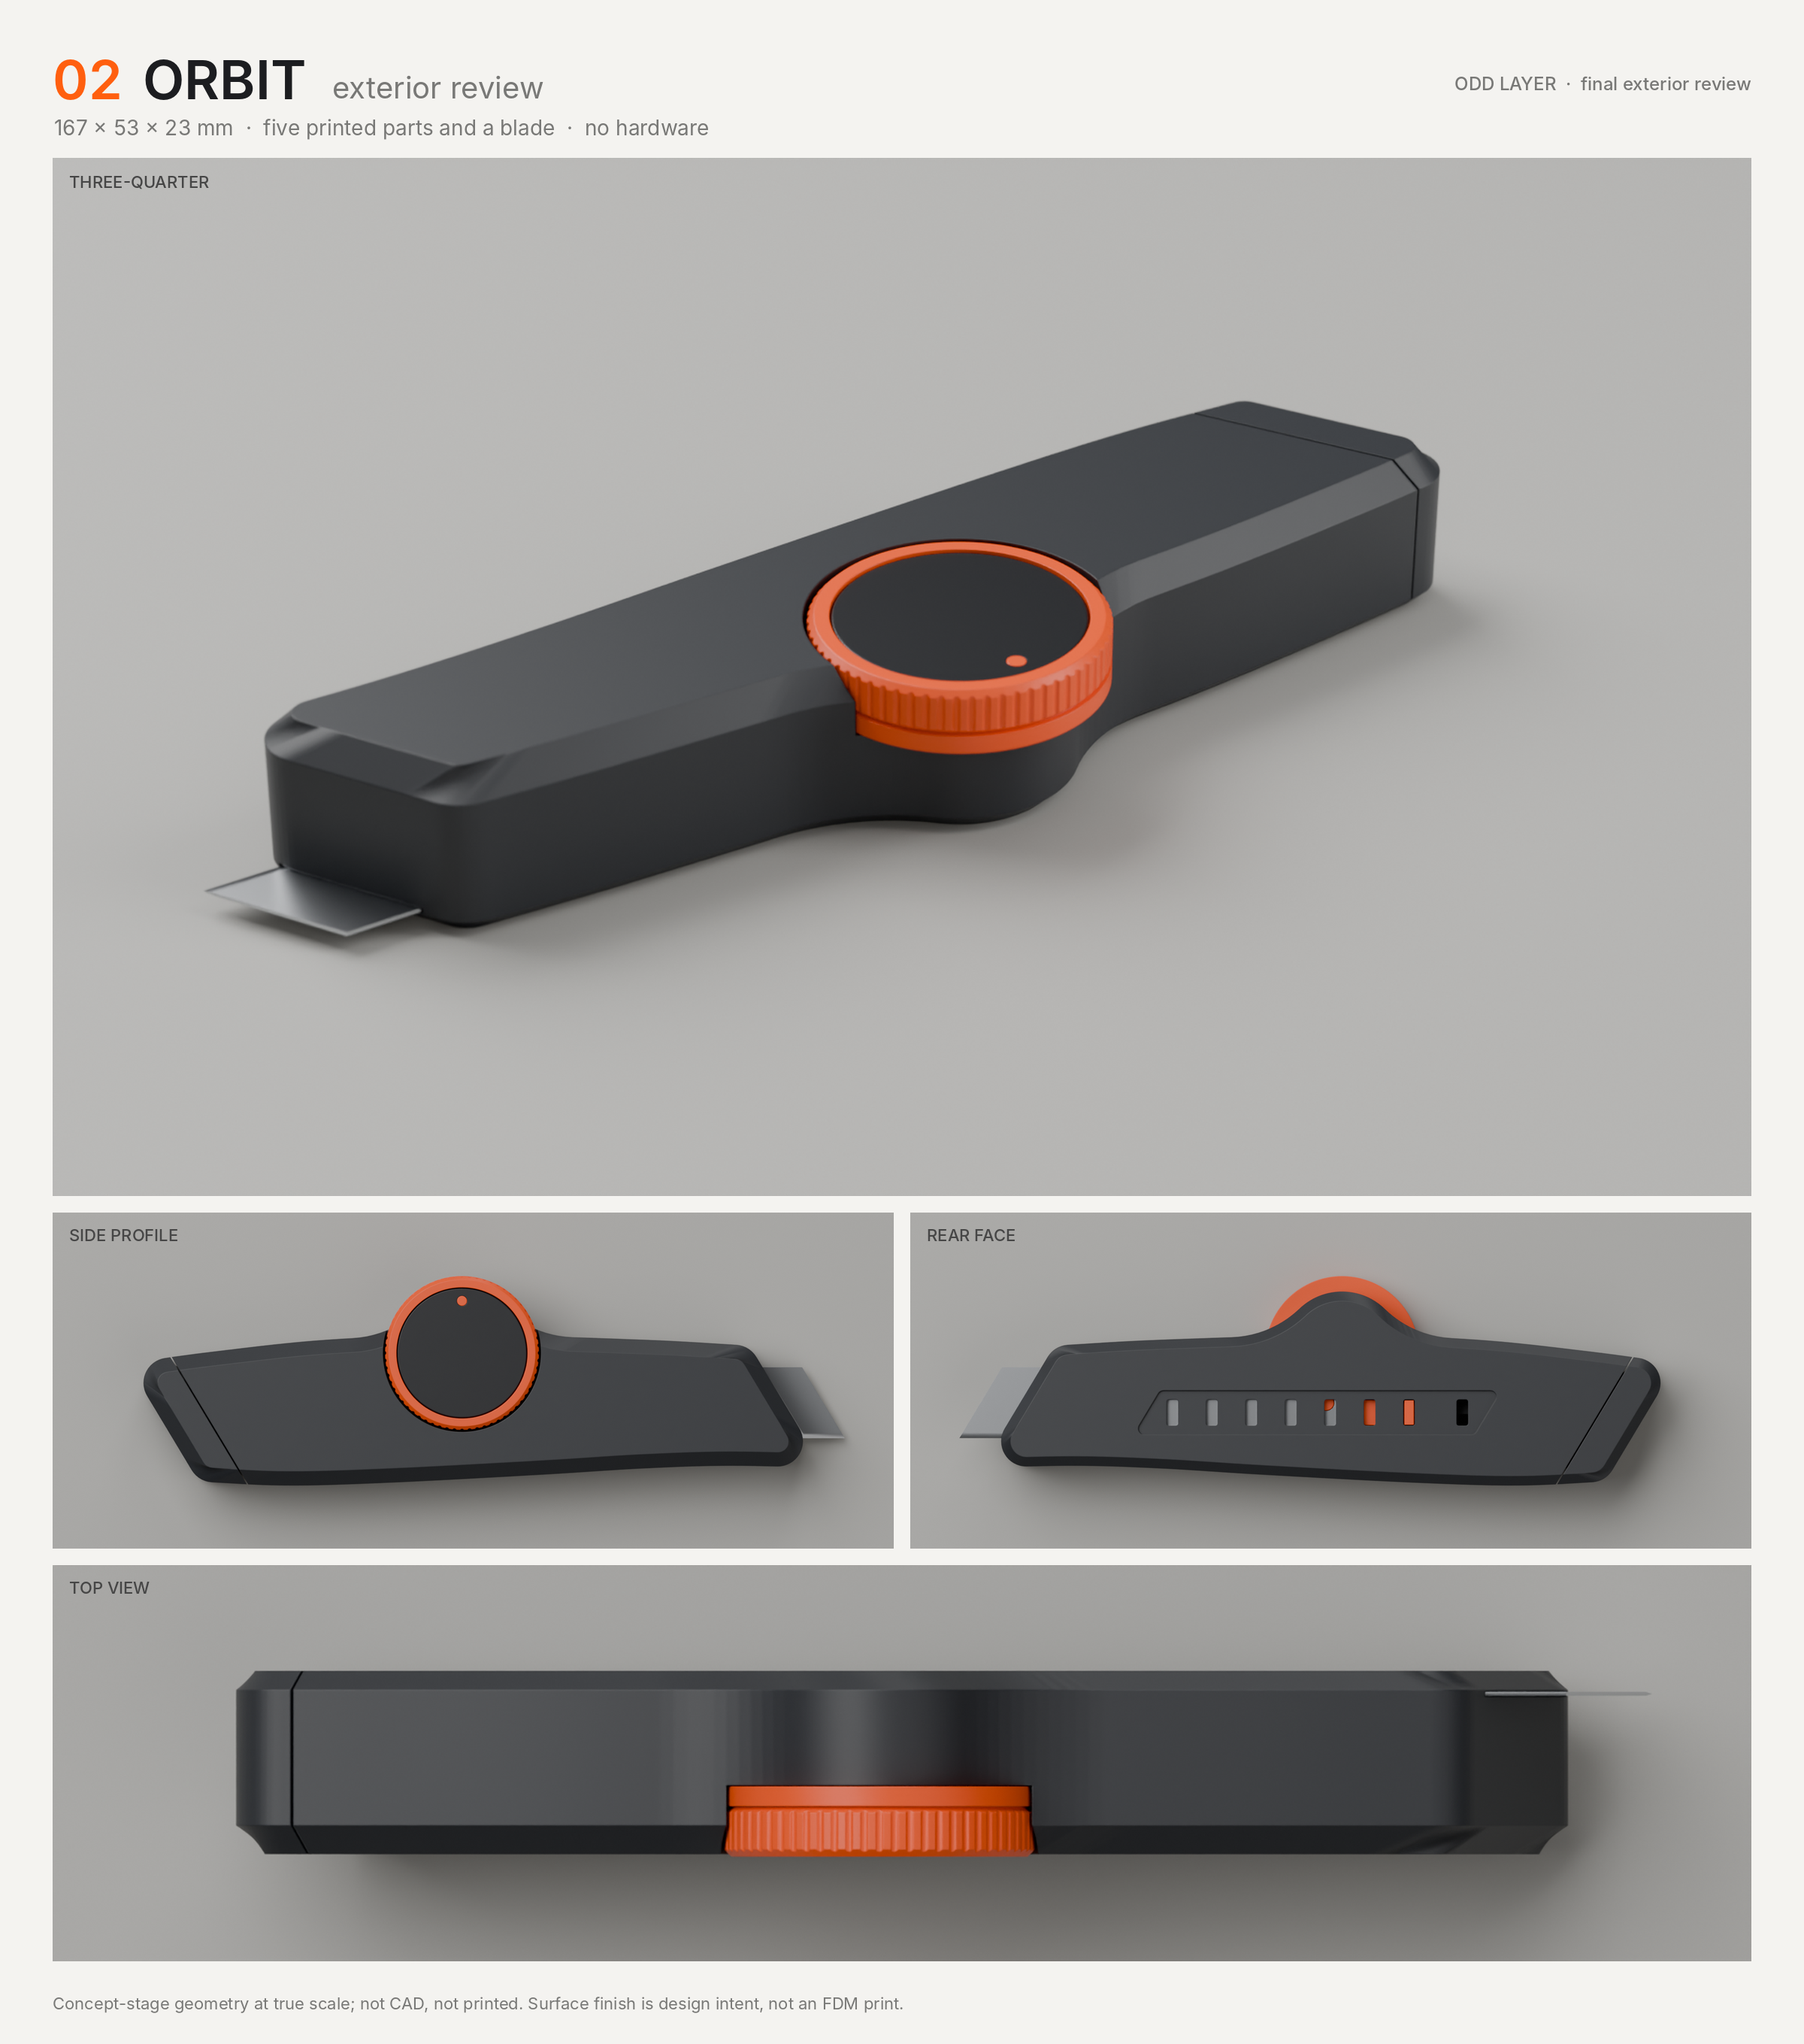
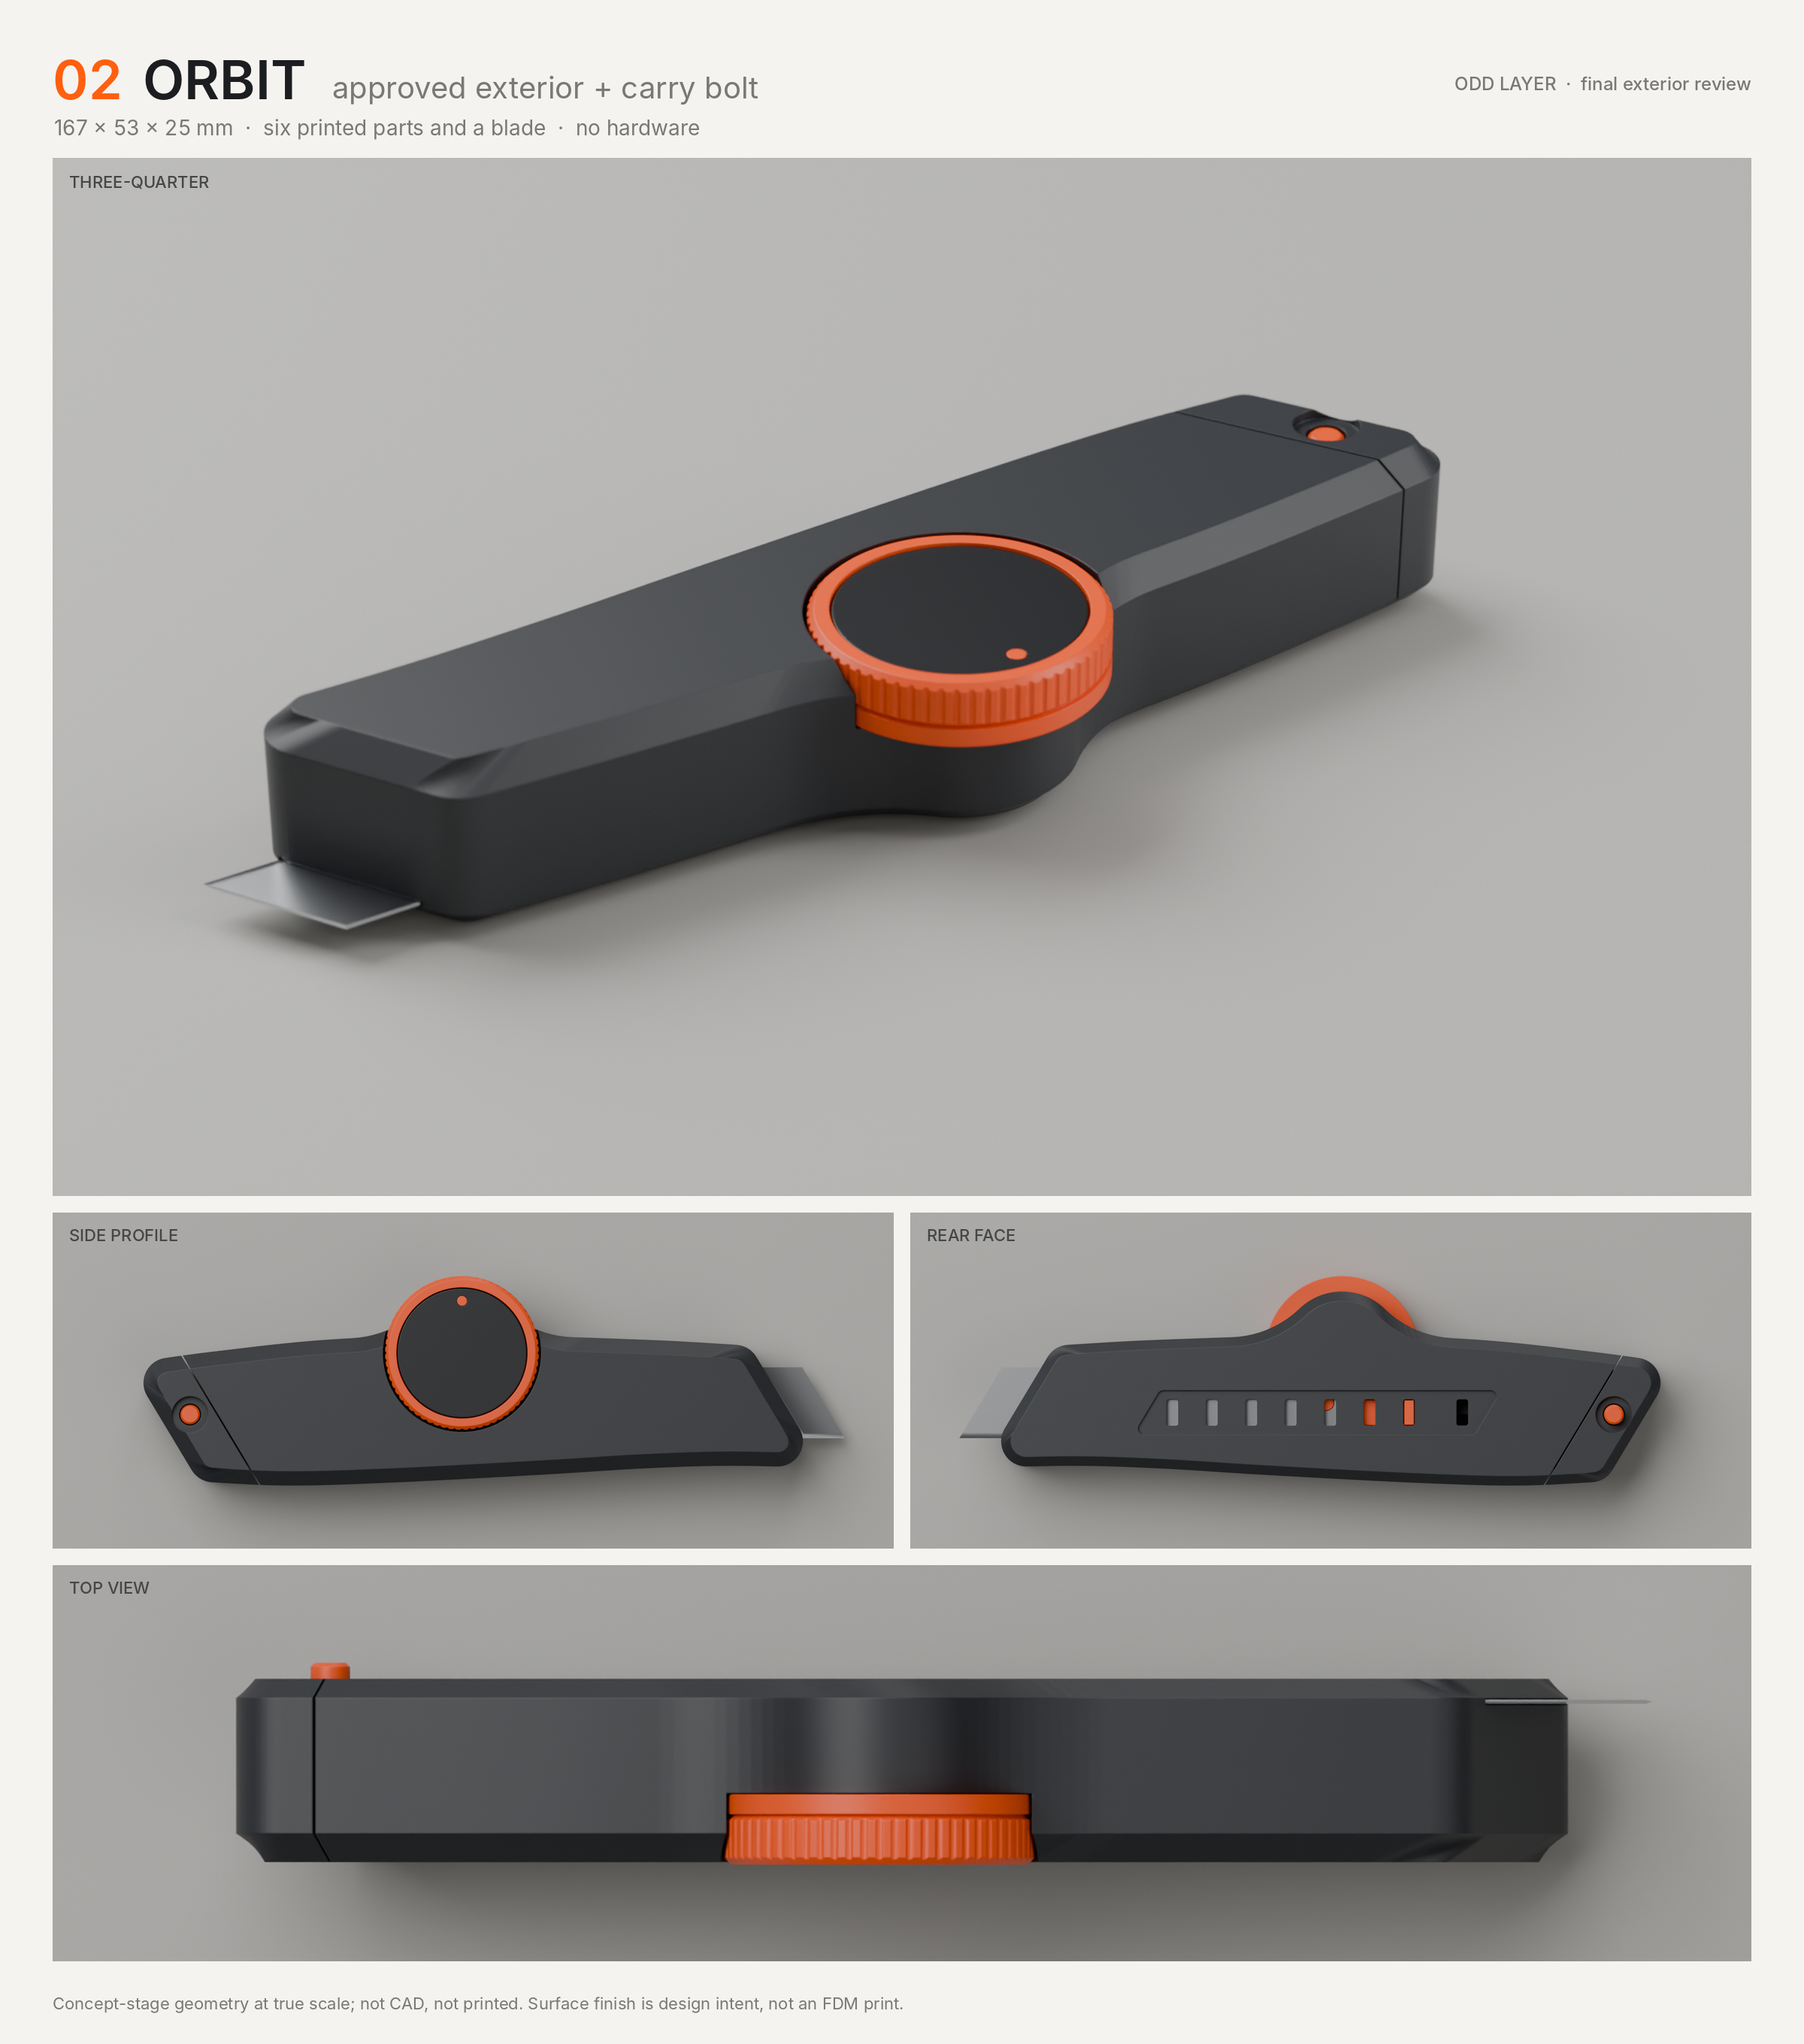
ORBIT architecture: final renders with carry bolt, boards rebuilt
Claude-Session: https://claude.ai/code/session_01B7X9gErJDfcyt8xAF857uu

diff --git a/utility-cutter/uc/board2.py b/utility-cutter/uc/board2.py
@@ -15,7 +15,7 @@ LEGEND = [
     ("body", "Body", "One piece. Prints on its back face; the blade channel is a bridge."),
     ("wheel", "Wheel", "Thumb wheel, pinion and flange in one part; the dark face is a colour inlay. Drops in from the side."),
     ("shuttle", "Shuttle", "The rack. Slides in from the tail and keys the wheel into the body."),
-    ("carriage", "Carriage", "Blade seat with the lock pawl. The wear part: reprint it, keep the rest."),
+    ("carriage", "Carriage", "Blade seat with the two lock pawls. The wear part: reprint it, keep the rest."),
     ("blade", "Blade", "Standard 18 mm snap-off. The only part that is not printed. Seven of its eight tips are used."),
     ("tail_cap", "Tail cap", "Closes the channel. Slides on sideways on two rails, so no load along the tool can pull it off."),
     ("carry_bolt", "Carry bolt", "Push-through bolt in the tail cap. Holds the rack when the blade is parked, so the wheel cannot turn."),
@@ -206,12 +206,12 @@ def mechanism(out):
     ex_w = 1500
     ex_h = int(ex_w * ex.height / ex.width)
     cut_h = int(cw * cut.height / cut.width)
-    lock_h = 560
+    lock_h = -22            # the lock sequence now has its own board (arch_lock.png)
     head = 210
     H = head + ex_h + G + cut_h + G + lock_h + M + 40
     s = Image.new("RGB", (W, H), BG)
     d = ImageDraw.Draw(s)
-    _header(d, W, M, "printed mechanism", "Six printed parts. The gears only move the blade; the cutting load goes through a pawl "
+    _header(d, W, M, "printed mechanism", "Six printed parts. The gears only move the blade; the cutting load goes through the pawls "
             "in the body wall.", "ODD LAYER  ·  layout, not CAD")
     # exploded view + legend
     y = head
@@ -246,7 +246,7 @@ def mechanism(out):
     lb = cmap["labels"]
     for (key, tx, tz, text) in [("pinion", lb["pinion"][0] - 30, 46, "12-tooth pinion, part of the wheel"),
                                 ("rack", lb["rack"][0] + 6, -24, "rack (shuttle)"),
-                                ("carriage", lb["carriage"][0] + 26, 46, "carriage and pawl"),
+                                ("carriage", lb["carriage"][0] + 26, 46, "carriage and pawls"),
                                 ("blade", 30, -24, "blade, flat against the back wall")]:
         x, z = lb[key]
         a, b = cp(x, z), cp(tx, tz)
@@ -256,23 +256,6 @@ def mechanism(out):
         bx = b[0] - w_ / 2
         d.rectangle((bx - 12, b[1] - 20, bx + w_ + 12, b[1] + 20), fill=WHITE)
         d.text((bx, b[1] - 15), text, font=f, fill=INK)
-    # lock sequence
-    y3 = y2 + cut_h + G
-    d.rectangle((M, y3, W - M, y3 + lock_h), fill=WHITE)
-    d.text((M + 22, y3 + 18), "LOCK SEQUENCE, SECTION SEEN FROM ABOVE (BACK WALL AT THE BOTTOM, NOSE TO THE LEFT)",
-           font=font("Medium", 22), fill=(70, 70, 70))
-    pw = (cw - 80) / 3
-    sc = (pw - 60) / 50.0
-    oy = y3 + 395
-    _lock_panel(d, M + 40, oy, sc, 0, "1  Locked",
-                ["Pawl tooth sits in a wall window; its spring arm is relaxed.",
-                 "Load path: blade, carriage, tooth, wall. No gear involved."])
-    _lock_panel(d, M + 40 + pw, oy, sc, 1, "2  Roll the wheel",
-                ["The rack moves 2.5 mm before the carriage does.",
-                 "Its V slot lifts the pawl clear, then picks the carriage up."])
-    _lock_panel(d, M + 40 + 2 * pw, oy, sc, 2, "3  Let go",
-                ["The arm is meant to spring back and re-centre the rack,",
-                 "dropping the tooth into the next window. Untested."])
     d.text((M, H - M + 2), "Layout and proportions only. Tooth form, fits and the spring arm are placeholders until the "
            "test coupons are printed.", font=font("Regular", 22), fill=MUTE)
     p = os.path.join(out, "board_orbit2_mechanism.png")

diff --git a/utility-cutter/ARCHITECTURE.md b/utility-cutter/ARCHITECTURE.md
@@ -24,7 +24,7 @@ chamfers).
 | Blade support | Nose slit only | Nose slit **plus lips along the channel** | The slit alone supports only 5 mm of the blade's back edge. |
 | Carry lock | None | **Cross-bolt in the tail cap** | Holds the rack when parked, so the wheel cannot turn. |
 | Tail cap | "Slides on sideways" | **Two T-rails, a latch, and two positive blocks** | Resolved; see below. |
-| Exterior | Approved | Unchanged except a 5 mm bolt end on each face of the tail cap | |
+| Exterior | Approved | Unchanged except a 5 mm bolt end on each face of the tail cap, and the cap seam 3 mm further forward | The body is still 23 mm thick; the bolt end stands 2 mm proud on one side. |
 
 Three corrections to earlier material:
 
@@ -224,6 +224,8 @@ of slit at the other. This is the least supported working position and should be
 separately.
 
 ## 6. Layout and critical clearances
+
+![Mechanism layout](renders/board_orbit2_mechanism.png)
 
 ![Section](renders/arch_section.png)
 
